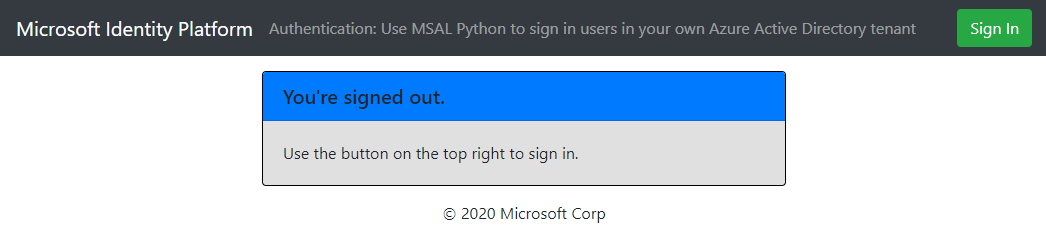
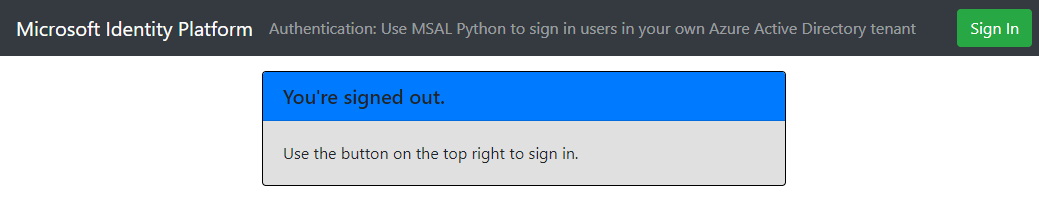
remove copyright as per derisen's review

Changed region(s): [[0.0, 0.0302, 1.0, 0.9648]]

diff --git a/templates/content.html b/templates/content.html
@@ -28,6 +28,6 @@
 {% endblock %}
 
 {% block footer %}
-    <p>&copy; 2020 Microsoft Corp</p>
+
 {% endblock %}
 
